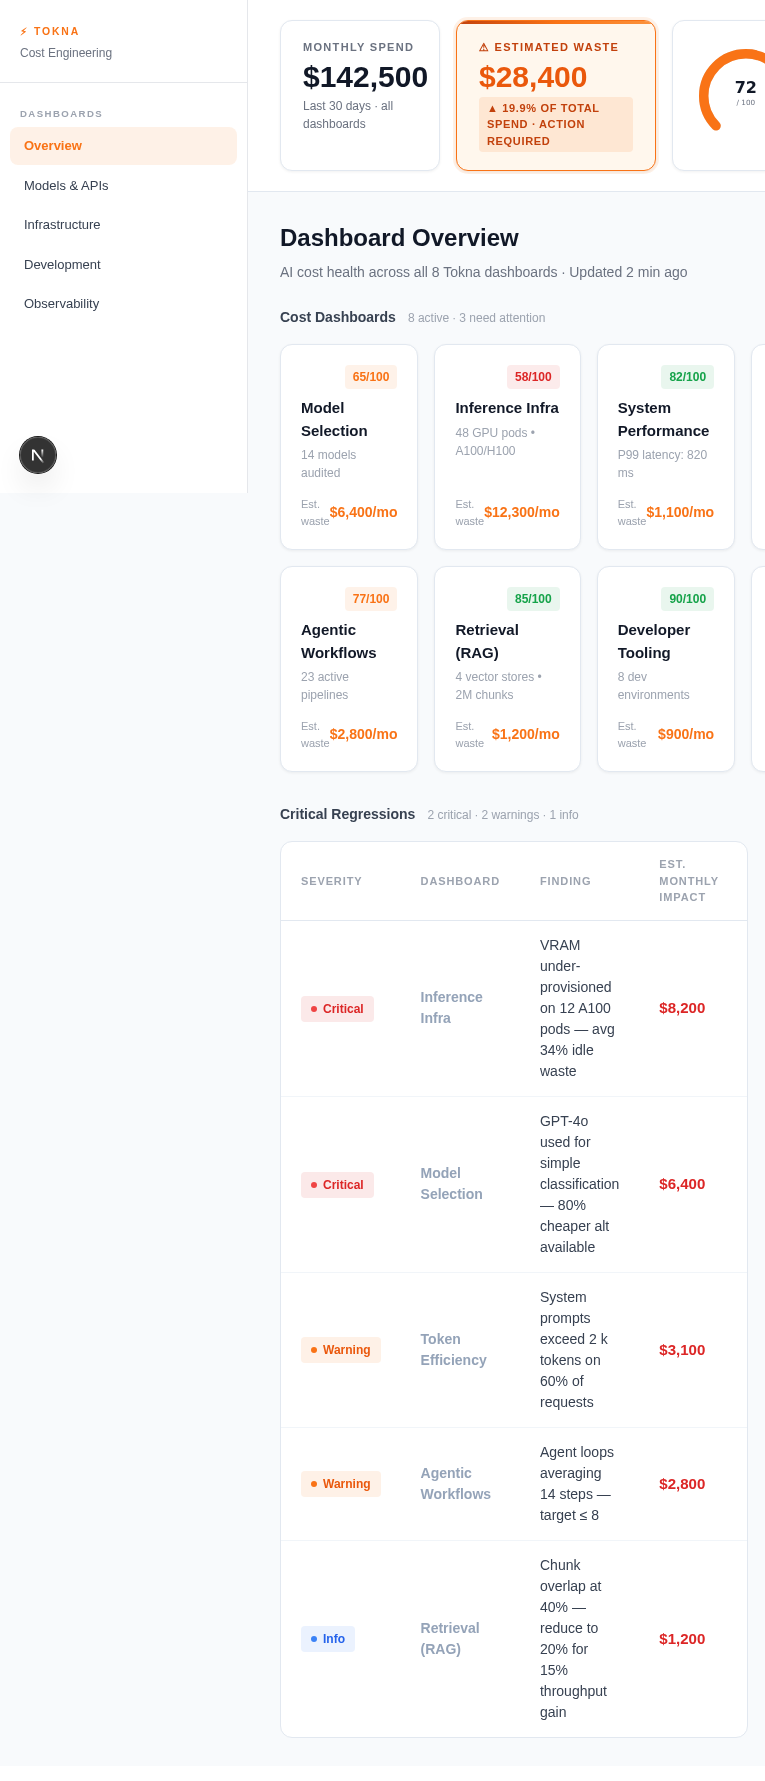
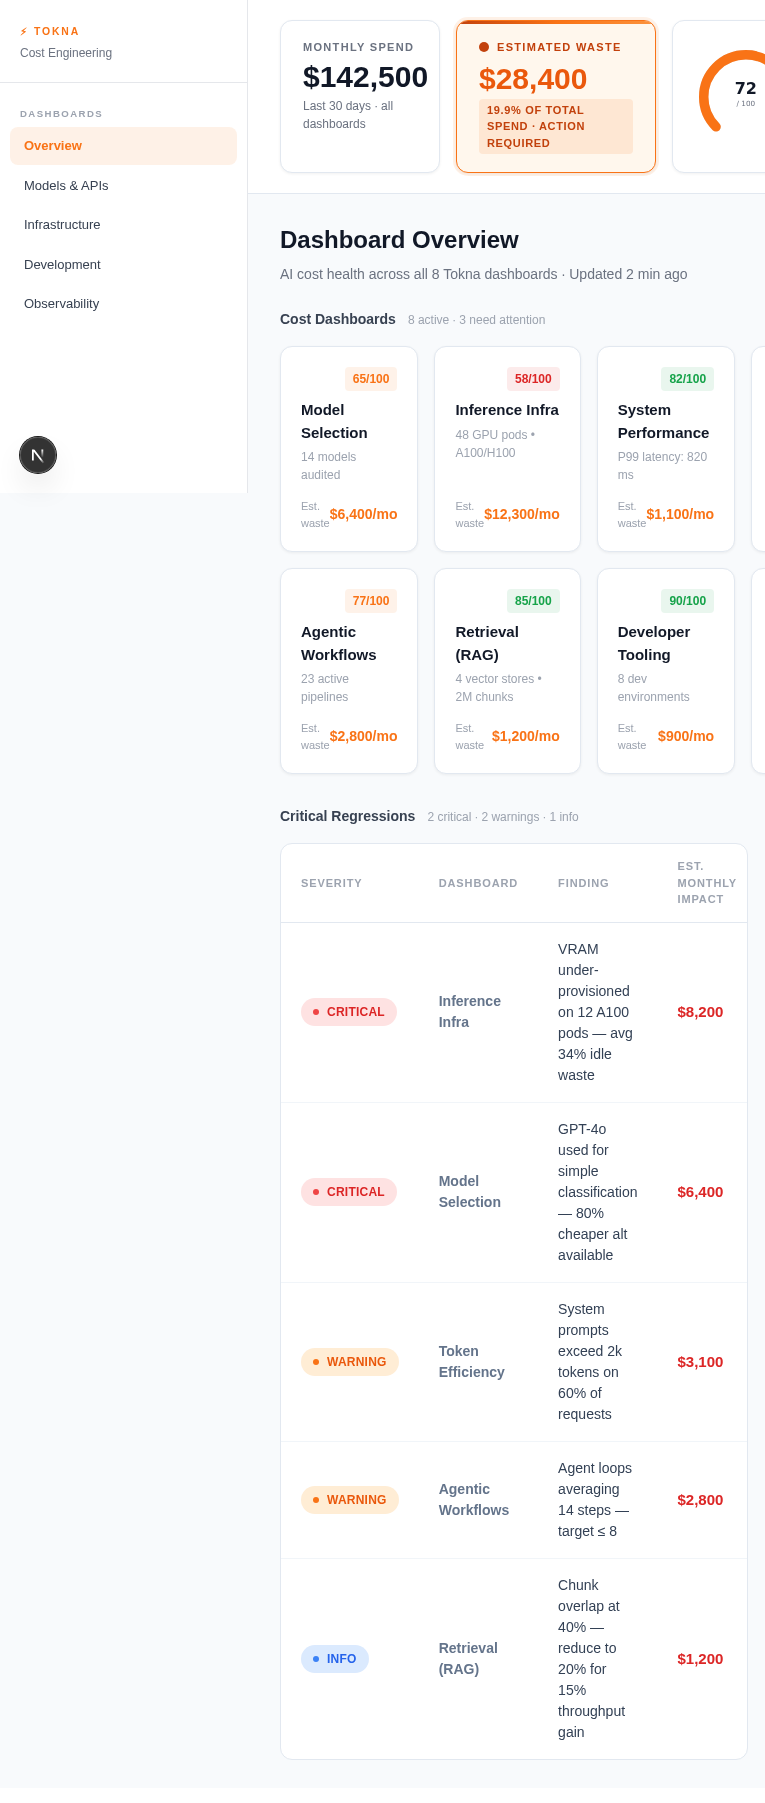
marketing: refine dashboard preview and live UI for high-fidelity rendering

diff --git a/apps/web/components/marketing/ProductTabs.tsx b/apps/web/components/marketing/ProductTabs.tsx
@@ -20,12 +20,12 @@ const ScanResultsMockup: ReactNode = (
     </div>
     {/* HIGH */}
     <div style={{ padding: '1rem 1.25rem', borderBottom: '1px solid #e2e8f0' }}>
-      <div style={{ display: 'flex', alignItems: 'center', gap: '0.5rem', marginBottom: '0.375rem' }}>
-        <span style={{ background: '#fee2e2', color: '#dc2626', fontSize: '0.6875rem', fontWeight: 700, padding: '0.125rem 0.5rem', borderRadius: '999px', display: 'inline-flex', alignItems: 'center', gap: '0.375rem' }}>
-          <span style={{ width: '6px', height: '6px', borderRadius: '50%', background: '#dc2626' }} />
+      <div style={{ display: 'flex', alignItems: 'center', gap: '0.75rem', marginBottom: '0.375rem' }}>
+        <span style={{ background: '#fee2e2', color: '#dc2626', fontSize: '0.6875rem', fontWeight: 800, padding: '0.25rem 0.625rem', borderRadius: '999px', display: 'inline-flex', alignItems: 'center', gap: '0.375rem', textTransform: 'uppercase' }}>
+          <span style={{ width: '6px', height: '6px', borderRadius: '50%', background: '#ef4444' }} />
           HIGH
         </span>
-        <code style={{ fontSize: '0.8125rem', color: '#374151' }}>chat/completion.ts:42</code>
+        <code style={{ fontSize: '0.8125rem', color: '#64748b', fontWeight: 500 }}>chat/completion.ts:42</code>
       </div>
       <div style={{ fontSize: '0.8125rem', fontWeight: 600, color: '#111827' }}>missing-max-tokens</div>
       <div style={{ fontSize: '0.8125rem', color: '#6b7280', marginTop: '0.125rem' }}>Uncapped completions — est. +$1,240/mo</div>
@@ -33,12 +33,12 @@ const ScanResultsMockup: ReactNode = (
     </div>
     {/* MED */}
     <div style={{ padding: '1rem 1.25rem', borderBottom: '1px solid #e2e8f0' }}>
-      <div style={{ display: 'flex', alignItems: 'center', gap: '0.5rem', marginBottom: '0.375rem' }}>
-        <span style={{ background: '#ffedd5', color: '#ea580c', fontSize: '0.6875rem', fontWeight: 700, padding: '0.125rem 0.5rem', borderRadius: '999px', display: 'inline-flex', alignItems: 'center', gap: '0.375rem' }}>
-          <span style={{ width: '6px', height: '6px', borderRadius: '50%', background: '#ea580c' }} />
+      <div style={{ display: 'flex', alignItems: 'center', gap: '0.75rem', marginBottom: '0.375rem' }}>
+        <span style={{ background: '#ffedd5', color: '#ea580c', fontSize: '0.6875rem', fontWeight: 800, padding: '0.25rem 0.625rem', borderRadius: '999px', display: 'inline-flex', alignItems: 'center', gap: '0.375rem', textTransform: 'uppercase' }}>
+          <span style={{ width: '6px', height: '6px', borderRadius: '50%', background: '#f97316' }} />
           MED
         </span>
-        <code style={{ fontSize: '0.8125rem', color: '#374151' }}>utils/retry.ts:87</code>
+        <code style={{ fontSize: '0.8125rem', color: '#64748b', fontWeight: 500 }}>utils/retry.ts:87</code>
       </div>
       <div style={{ fontSize: '0.8125rem', fontWeight: 600, color: '#111827' }}>unbounded-retry</div>
       <div style={{ fontSize: '0.8125rem', color: '#6b7280', marginTop: '0.125rem' }}>No retry cap — est. +$340/mo</div>
@@ -46,12 +46,12 @@ const ScanResultsMockup: ReactNode = (
     </div>
     {/* LOW */}
     <div style={{ padding: '1rem 1.25rem', borderBottom: '1px solid #e2e8f0' }}>
-      <div style={{ display: 'flex', alignItems: 'center', gap: '0.5rem', marginBottom: '0.375rem' }}>
-        <span style={{ background: '#dbeafe', color: '#2563eb', fontSize: '0.6875rem', fontWeight: 700, padding: '0.125rem 0.5rem', borderRadius: '999px', display: 'inline-flex', alignItems: 'center', gap: '0.375rem' }}>
-          <span style={{ width: '6px', height: '6px', borderRadius: '50%', background: '#2563eb' }} />
+      <div style={{ display: 'flex', alignItems: 'center', gap: '0.75rem', marginBottom: '0.375rem' }}>
+        <span style={{ background: '#dbeafe', color: '#2563eb', fontSize: '0.6875rem', fontWeight: 800, padding: '0.25rem 0.625rem', borderRadius: '999px', display: 'inline-flex', alignItems: 'center', gap: '0.375rem', textTransform: 'uppercase' }}>
+          <span style={{ width: '6px', height: '6px', borderRadius: '50%', background: '#3b82f6' }} />
           LOW
         </span>
-        <code style={{ fontSize: '0.8125rem', color: '#374151' }}>classify/model.ts:14</code>
+        <code style={{ fontSize: '0.8125rem', color: '#64748b', fontWeight: 500 }}>classify/model.ts:14</code>
       </div>
       <div style={{ fontSize: '0.8125rem', fontWeight: 600, color: '#111827' }}>overpriced-model</div>
       <div style={{ fontSize: '0.8125rem', color: '#6b7280', marginTop: '0.125rem' }}>GPT-4 for classification — +$180/mo</div>

diff --git a/apps/web/app/(app)/dashboard/page.tsx b/apps/web/app/(app)/dashboard/page.tsx
@@ -16,7 +16,7 @@ const VERTICALS = [
 const REGRESSIONS = [
   { severity: 'crit', dashboard: 'Inference Infra',    finding: 'VRAM under-provisioned on 12 A100 pods — avg 34% idle waste',         impact: '$8,200', detected: '2h ago' },
   { severity: 'crit', dashboard: 'Model Selection',    finding: 'GPT-4o used for simple classification — 80% cheaper alt available',   impact: '$6,400', detected: '1d ago' },
-  { severity: 'warn', dashboard: 'Token Efficiency',   finding: 'System prompts exceed 2 k tokens on 60% of requests',                  impact: '$3,100', detected: '3h ago' },
+  { severity: 'warn', dashboard: 'Token Efficiency',   finding: 'System prompts exceed 2k tokens on 60% of requests',                  impact: '$3,100', detected: '3h ago' },
   { severity: 'warn', dashboard: 'Agentic Workflows',  finding: 'Agent loops averaging 14 steps — target ≤ 8',                          impact: '$2,800', detected: '5h ago' },
   { severity: 'info', dashboard: 'Retrieval (RAG)',    finding: 'Chunk overlap at 40% — reduce to 20% for 15% throughput gain',         impact: '$1,200', detected: '6h ago' },
 ] as const;
@@ -28,20 +28,22 @@ function healthColor(status: string) {
 function SeverityBadge({ sev }: { sev: string }) {
   const label = sev === 'crit' ? 'Critical' : sev === 'warn' ? 'Warning' : 'Info';
   const fg = sev === 'crit' ? '#dc2626' : sev === 'warn' ? '#ea580c' : '#2563eb';
-  const bg = sev === 'crit' ? 'rgba(220,38,38,0.1)' : sev === 'warn' ? 'rgba(249,115,22,0.1)' : 'rgba(59,130,246,0.1)';
+  const bg = sev === 'crit' ? '#fee2e2' : sev === 'warn' ? '#ffedd5' : '#dbeafe';
   const dot = sev === 'crit' ? '#ef4444' : sev === 'warn' ? '#f97316' : '#3b82f6';
 
   return (
     <span style={{
       display: 'inline-flex',
       alignItems: 'center',
-      gap: '0.375rem',
-      padding: '0.25rem 0.625rem',
-      borderRadius: '0.25rem',
+      gap: '0.5rem',
+      padding: '0.3125rem 0.75rem',
+      borderRadius: '999px',
       fontSize: '0.75rem',
-      fontWeight: 600,
+      fontWeight: 700,
       background: bg,
       color: fg,
+      textTransform: 'uppercase',
+      letterSpacing: '0.02em',
     }}>
       <span style={{ width: '6px', height: '6px', borderRadius: '50%', background: dot }} />
       {label}
@@ -134,19 +136,19 @@ export default function DashboardOverview() {
               <tbody>
                 {REGRESSIONS.map((r, i) => (
                   <tr key={i} style={{ borderBottom: i < REGRESSIONS.length - 1 ? '1px solid #f1f5f9' : 'none' }}>
-                    <td style={{ padding: '0.875rem 1.25rem' }}>
+                    <td style={{ padding: '1rem 1.25rem', verticalAlign: 'middle' }}>
                       <SeverityBadge sev={r.severity} />
                     </td>
-                    <td style={{ padding: '0.875rem 1.25rem', fontSize: '0.875rem', color: '#94a3b8', fontWeight: 600 }}>
+                    <td style={{ padding: '1rem 1.25rem', fontSize: '0.875rem', color: '#64748b', fontWeight: 600, verticalAlign: 'middle' }}>
                       {r.dashboard}
                     </td>
-                    <td style={{ padding: '0.875rem 1.25rem', fontSize: '0.875rem', color: '#374151' }}>
+                    <td style={{ padding: '1rem 1.25rem', fontSize: '0.875rem', color: '#334155', verticalAlign: 'middle', lineHeight: 1.5 }}>
                       {r.finding}
                     </td>
-                    <td style={{ padding: '0.875rem 1.25rem' }}>
+                    <td style={{ padding: '1rem 1.25rem', verticalAlign: 'middle' }}>
                       <span style={{ fontSize: '0.9375rem', fontWeight: 700, color: '#dc2626' }}>{r.impact}</span>
                     </td>
-                    <td style={{ padding: '0.875rem 1.25rem', fontSize: '0.875rem', color: '#475569' }}>
+                    <td style={{ padding: '1rem 1.25rem', fontSize: '0.8125rem', color: '#94a3b8', verticalAlign: 'middle' }}>
                       {r.detected}
                     </td>
                   </tr>

diff --git a/apps/web/components/dashboard/MetricsBar.tsx b/apps/web/components/dashboard/MetricsBar.tsx
@@ -40,8 +40,11 @@ export default function MetricsBar() {
           position: 'absolute', top: 0, left: 0, right: 0, height: '3px',
           background: 'linear-gradient(90deg, #c2410c, #f97316, #fb923c)',
         }} />
-        <div style={{ fontSize: '0.6875rem', fontWeight: 700, letterSpacing: '0.12em', textTransform: 'uppercase', color: '#c2410c' }}>
-          ⚠ Estimated Waste
+        <div style={{ display: 'flex', alignItems: 'center', gap: '0.5rem', marginBottom: '0.125rem' }}>
+          <div style={{ width: '10px', height: '10px', borderRadius: '50%', background: '#c2410c' }} />
+          <div style={{ fontSize: '0.6875rem', fontWeight: 700, letterSpacing: '0.12em', textTransform: 'uppercase', color: '#c2410c' }}>
+            Estimated Waste
+          </div>
         </div>
         <div style={{ fontSize: '1.875rem', fontWeight: 700, color: '#ea580c', lineHeight: 1.1 }}>
           $28,400
@@ -51,11 +54,11 @@ export default function MetricsBar() {
           padding: '0.1875rem 0.5rem',
           background: 'rgba(249,115,22,0.12)',
           borderRadius: '0.25rem',
-          fontSize: '0.6875rem', fontWeight: 700, color: '#c2410c',
+          fontSize: '0.6875rem', fontWeight: 800, color: '#c2410c',
           textTransform: 'uppercase', letterSpacing: '0.06em',
           width: 'fit-content',
         }}>
-          ▲ 19.9% of total spend · ACTION REQUIRED
+          19.9% of total spend · ACTION REQUIRED
         </div>
       </div>
 
